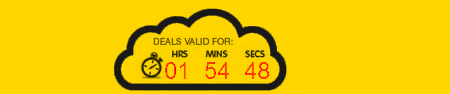
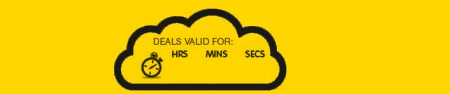
增加倒计时功能
1, 修改倒计时背景图片，增加倒计时功能；
2，修改倒计时样式；
3，增加主页 see all category 主页链接

diff --git a/images/nbase1.css b/images/nbase1.css
@@ -10,6 +10,7 @@ img{border:0;}
 .top{ width:100%; margin:0 auto; text-align:center; background:url(ds_01.jpg) repeat-x;}
 
 .top_t{ height:94px; width:961px; margin:0 auto;}
+#everyday-timer {color:red; padding-left:170px; padding-top:45px; font-size:20px;}
 .top_c{ height:34px; background:url(ds_06.jpg) no-repeat; width:961px; margin:0 auto;}
 .top_e{ height:423px; width:961px; margin:0 auto;}
 
